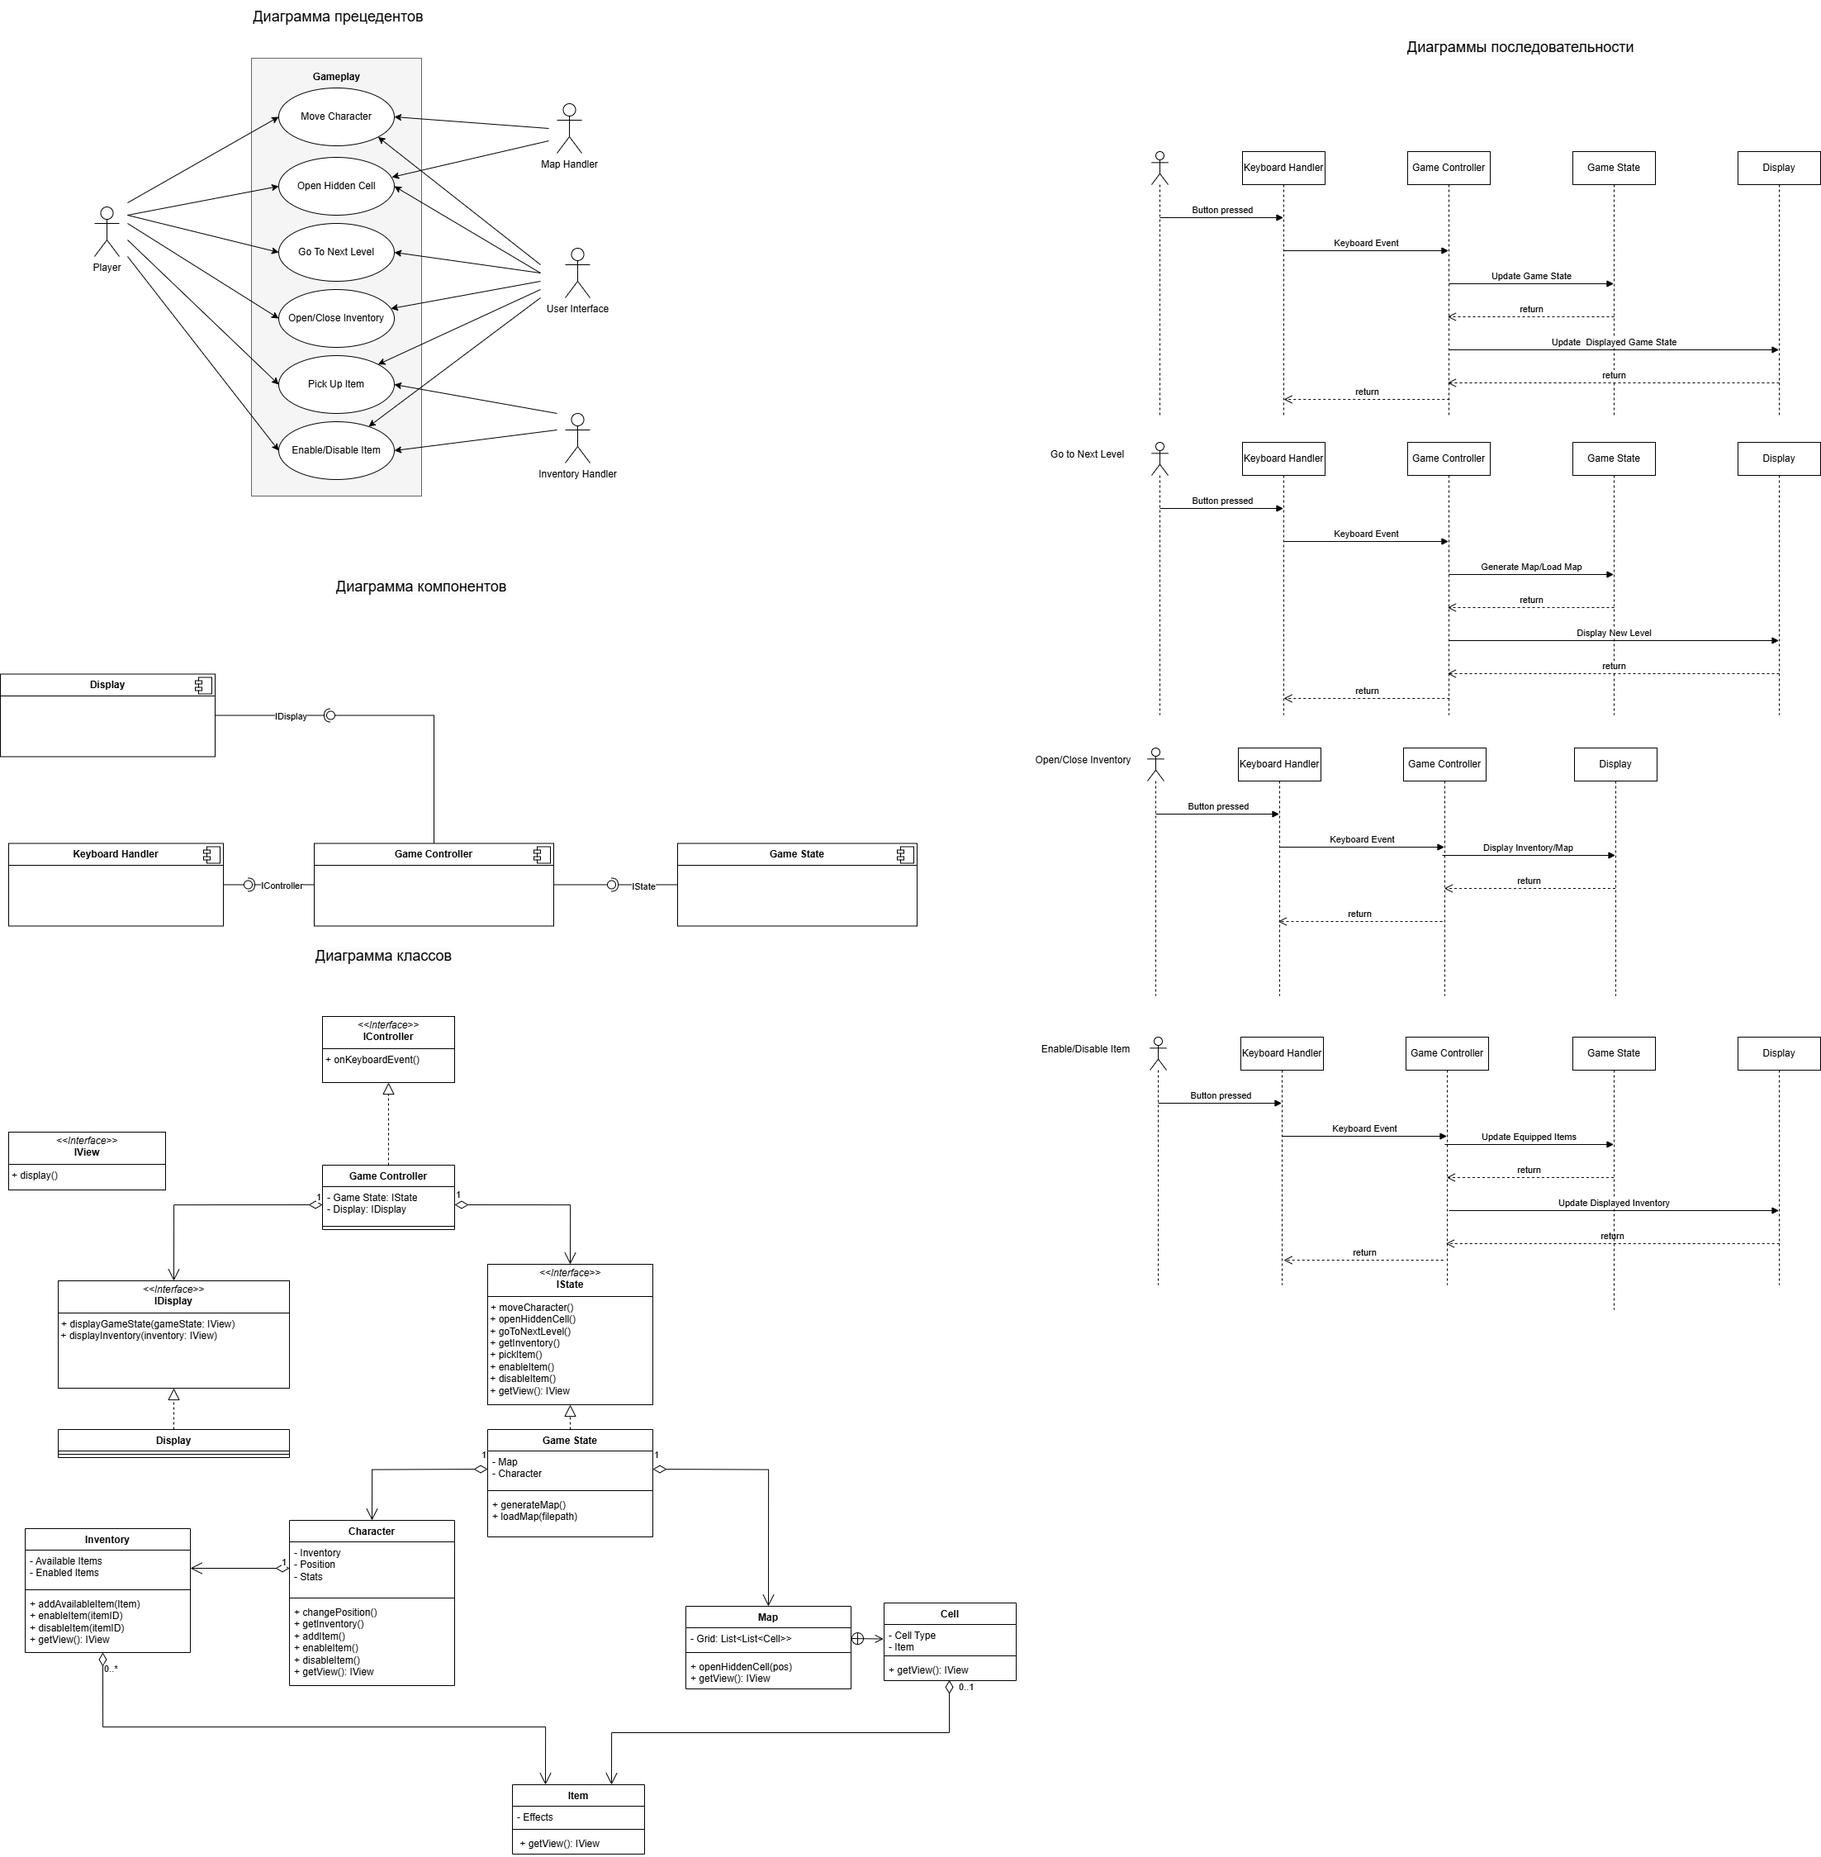
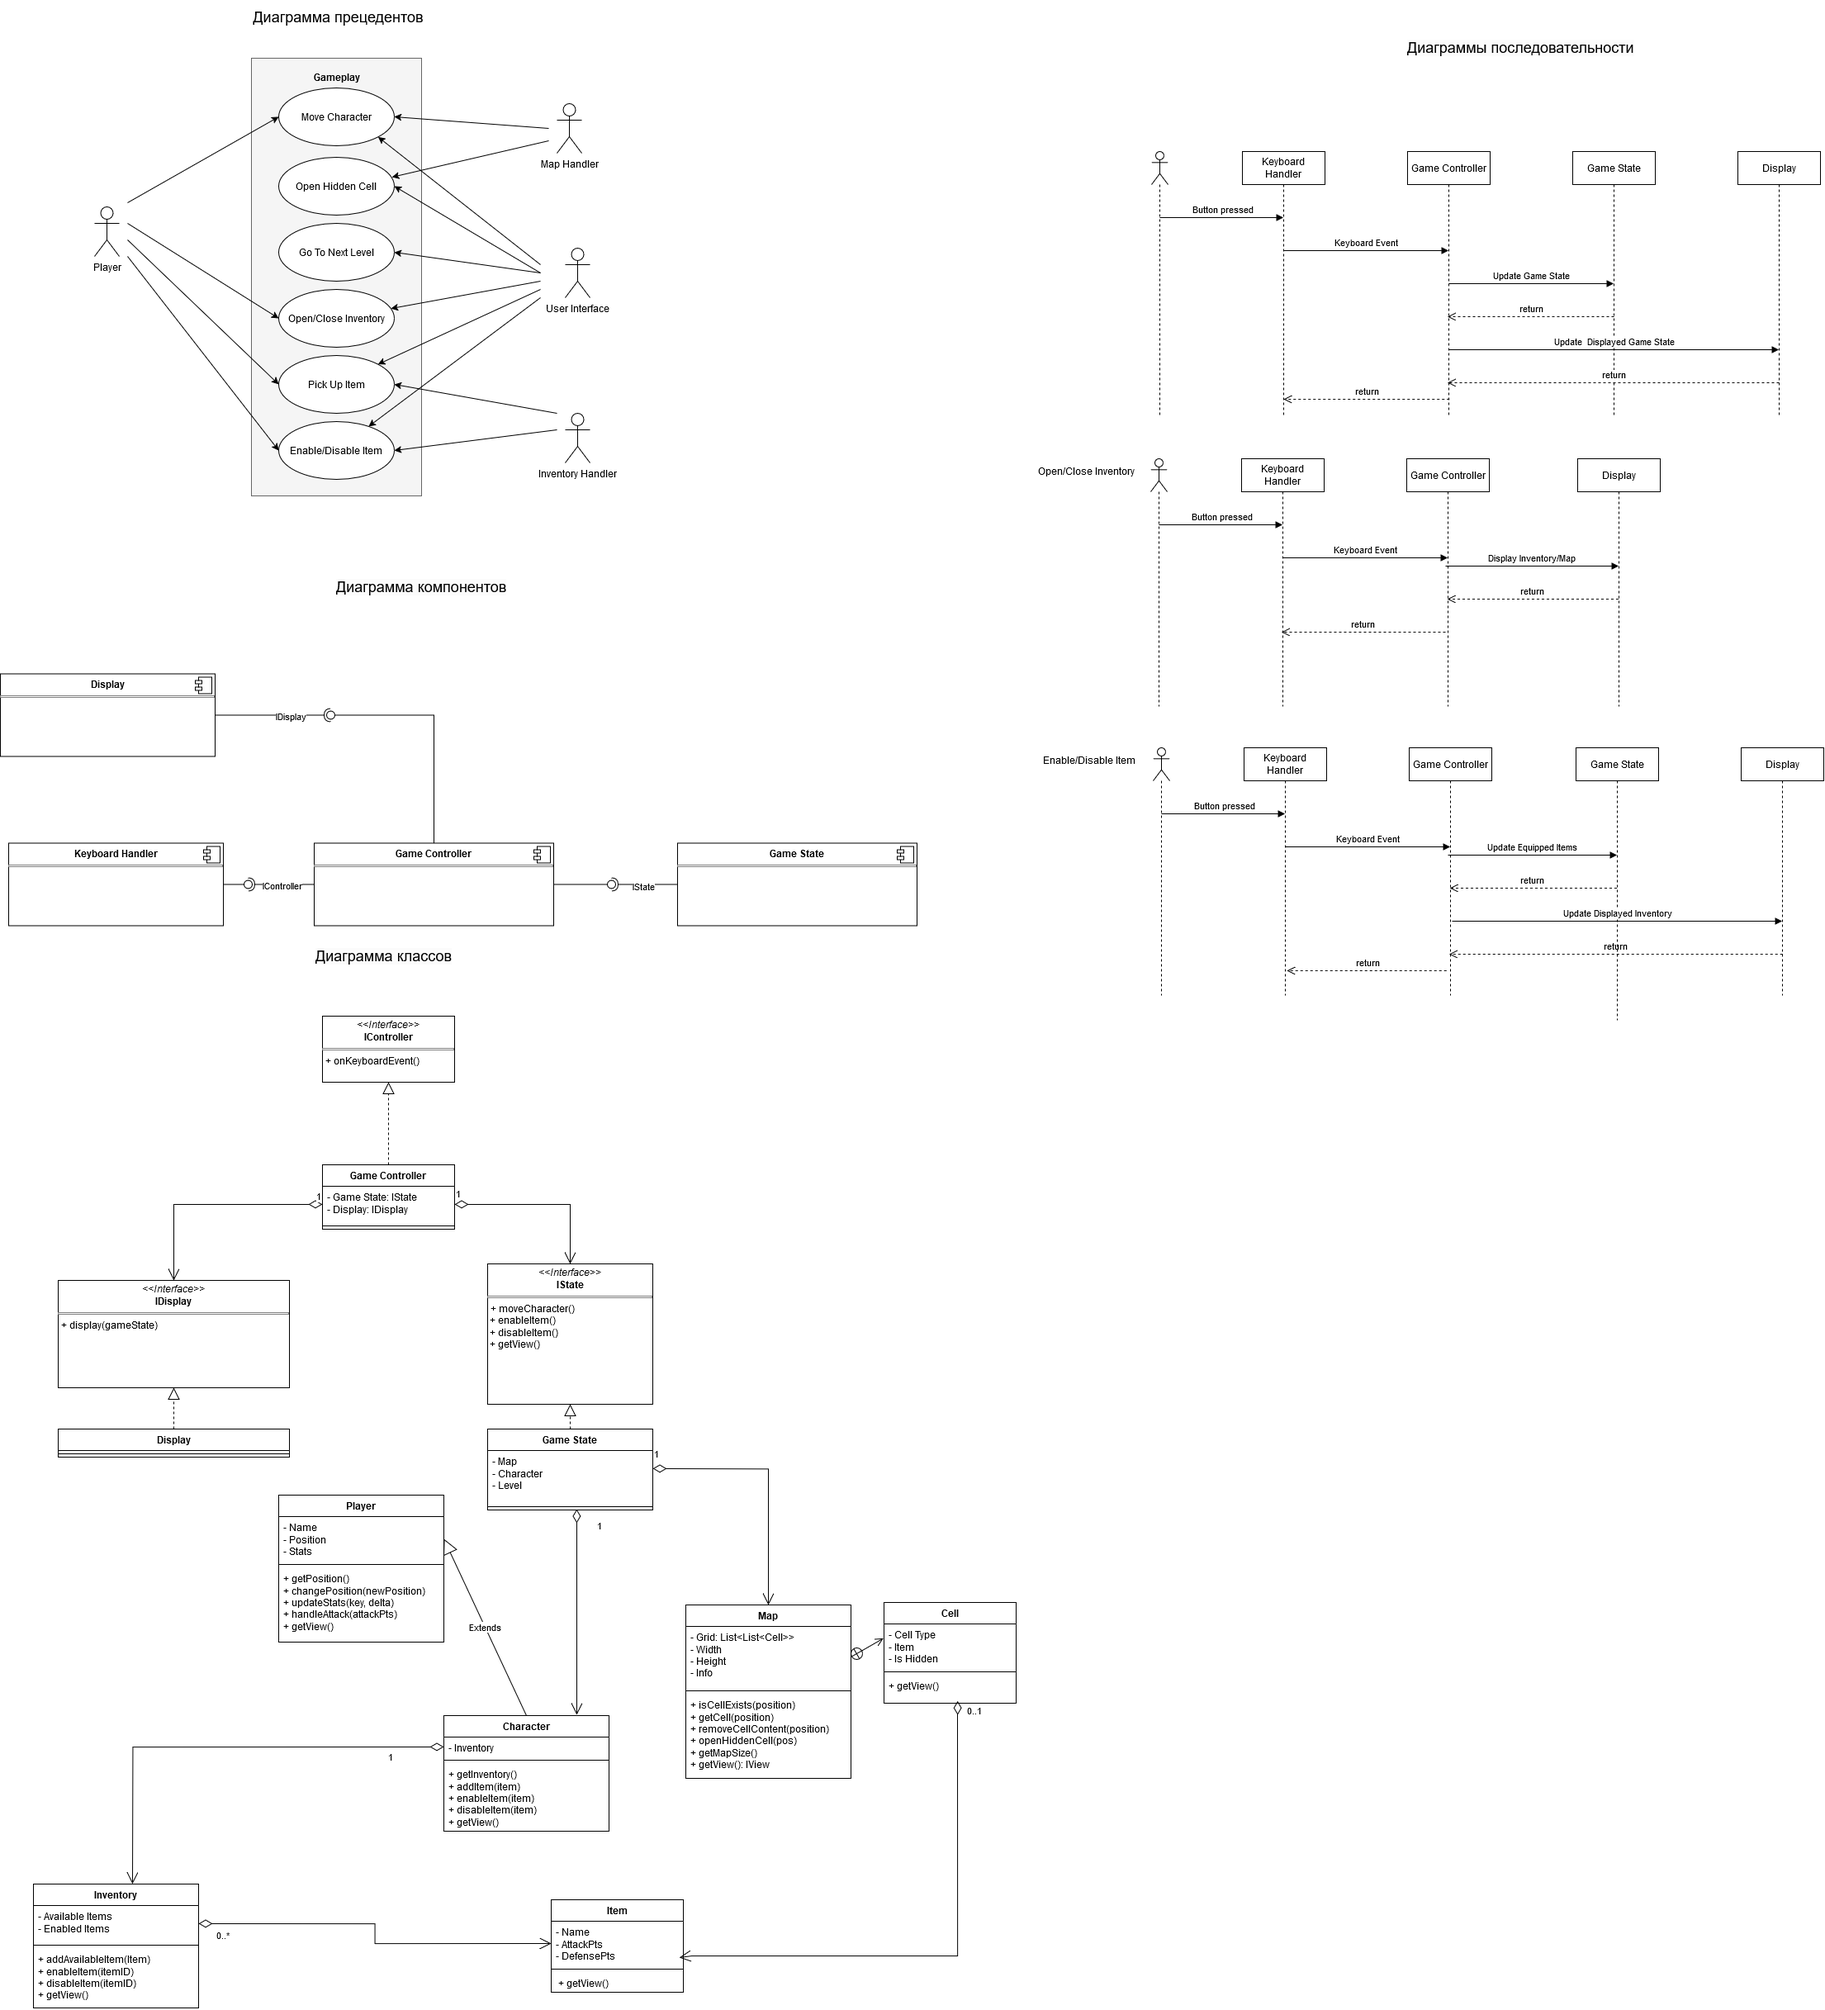
update docs

diff --git a/docs/Roguelike.md b/docs/Roguelike.md
@@ -1,13 +1,13 @@
 # Roguelike
 ## Общие сведения о системе
-Во время игровой сессии на экране отображается карта, на которой расположены клетки с секретами. 
-Цель для прохождения уровня: найти клетку со спуском на следующий уровень
-Цель игры: спуститься как можно ниже
+Во время игровой сессии на экране отображается карта, на которой расположены клетки различных типов. 
+
+Цель для прохождения уровня: дойти до клетки, которая содержит :trophy:
+
+Цель игры: пройти все уровни
 ## Роли и случаи использования
-Типичный пользователь **Player** запускает игру и на его экране отображается карта текущего уровня. В рамках игровой сессии **Player** может выполнять следующие действия посредством ввода с клавиатуры:
+Типичный пользователь запускает игру, после чего на экране отображается карта текущего уровня. В рамках игровой сессии пользователь может выполнять следующие действия посредством ввода с клавиатуры:
 * Переместить персонажа (**Move Character**) - на экране отображается новое расположение персонажа
-* Исследовать клетку с секретом (**Open Hidden Cell**) - на экране отображается содержимое клетки с секретом: ничего; предмет, который можно подобрать и использовать (**Item**); переход на следующий уровень 
-* Перейти на следующий уровень (**Go to Next Level**) - данное действие доступно только после открытия клетки с переходом на следующий уровень
 * Открыть/Закрыть инвентарь (**Open/Close Inventory**) - на экране отображается инвентарь персонажа/карта уровня
 * Подобрать предмет (**Pick up Item**) - добавить предмет в инвентарь из открытой ячейки с секретом
 * Активировать/Деактивировать предмет (**Enable/Disable Item**) - сделать предмет из инвентаря активным/неактивным, что может изменить значения характеристик персонажа
@@ -15,14 +15,15 @@
 В системе есть 4 основных компонента:
 * **Keyboard Handler** - компонент, который отслеживает пользовательский ввод и передаёт управление компоненту **Game Controller**
 * **Game Controller** - компонент, который реализует интерфейс **IController**. Данный компонент обрабатывает выбранное действие игрока и передаёт компоненту **Game State** соответствующую команду обновить состояние, а также передаёт компоненту **Display** соответствующую команду для обновления отображаемого на экране.
-* **Game State** - компонент, реализующий интерфейс **IState**. Данный компонент хранит текущее состояние игровой сессии: карту текущего уровня, инвентарь персонажа с предметами и т.д.
+* **Game State** - компонент, реализующий интерфейс **IState**. Данный компонент хранит текущее состояние игровой сессии: карту текущего уровня, информацию о персонаже и т.д.
 * **Display** - компонент, реализующий интерфейс **IDisplay**. При вызове соответствующего метода данного компонента на экране отображается либо карта текущего уровня, либо инвентарь персонажа с собранными предметами.
 ## Логическая структура
 * Интерфейс **IController** содержит метод для обработки события ввода с клавиатуры. Данный интерфейс реализуется класс **Game Controller**.
 * Интерфейс **IState** содержит методы для изменения состояния игровой сессии. Данный интерфейс реализует класс **Game State**. В классе **Game State** хранятся карта текущего уровня **Map** и информация об игровом персонаже **Character**.
 * **Map** соответствует карте текущего уровня, которая состоит из клеток **Cell**. В клетке **Cell** хранится информация о типе клетки **Cell Type** и предмете **Item**, если он там есть. Для предмета храним информацию об эффектах, которые он оказывает на характеристики персонажа, когда предмет активен.
-* **Character** соответствует игровому персонажу, для него хранится информация о текущем положении на карте, инвентаре **Inventory** с активными/неактивными предметами **Item** и текущими характеристиками персонажа.
-* Каждый из указанных классов имеет метод **getView()**, который возвращает объект, реализующий интерфейс **IView** для отображения на экране.
+* **Player** соответствует одному из игроков на карте (персонажу или мобу). Для него хранится текущее положение, имя и игровые характеристики. 
+* **Character** наследуется от **Player** и соответствует игровому персонажу, для него допольнительно хранится информация об инвентаре **Inventory**.
+* Каждый из указанных классов имеет метод **getView()**, который возвращает информацию об объекте по особому протоколу так, чтобы **Display** мог его корректно отобразить.
 * Интерфейс **IDisplay** содержит методы для отображения текущего состояния игровой сессии и инвентаря персонажа.
 ## Взаимодействия и состояния
 В общем случае взаимодействие между компонентами выглядит следующим образом:
